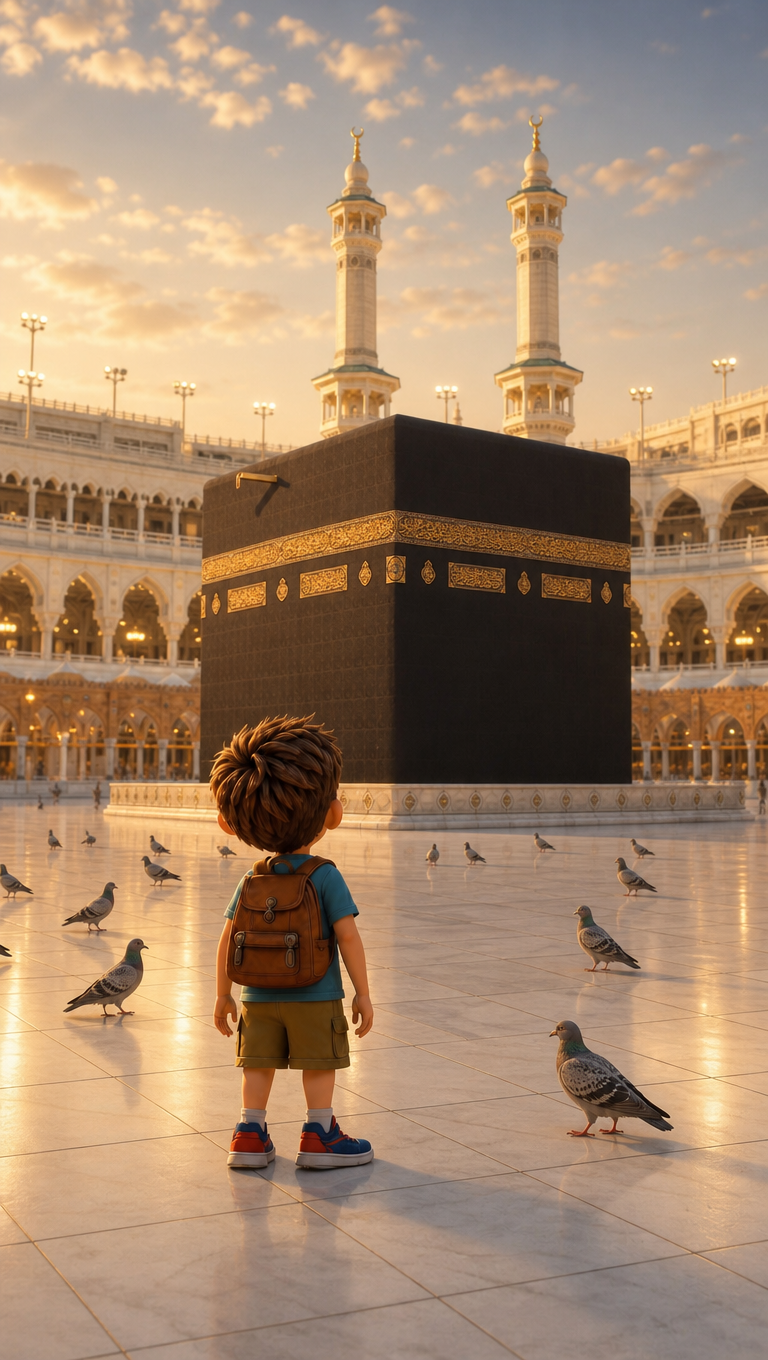
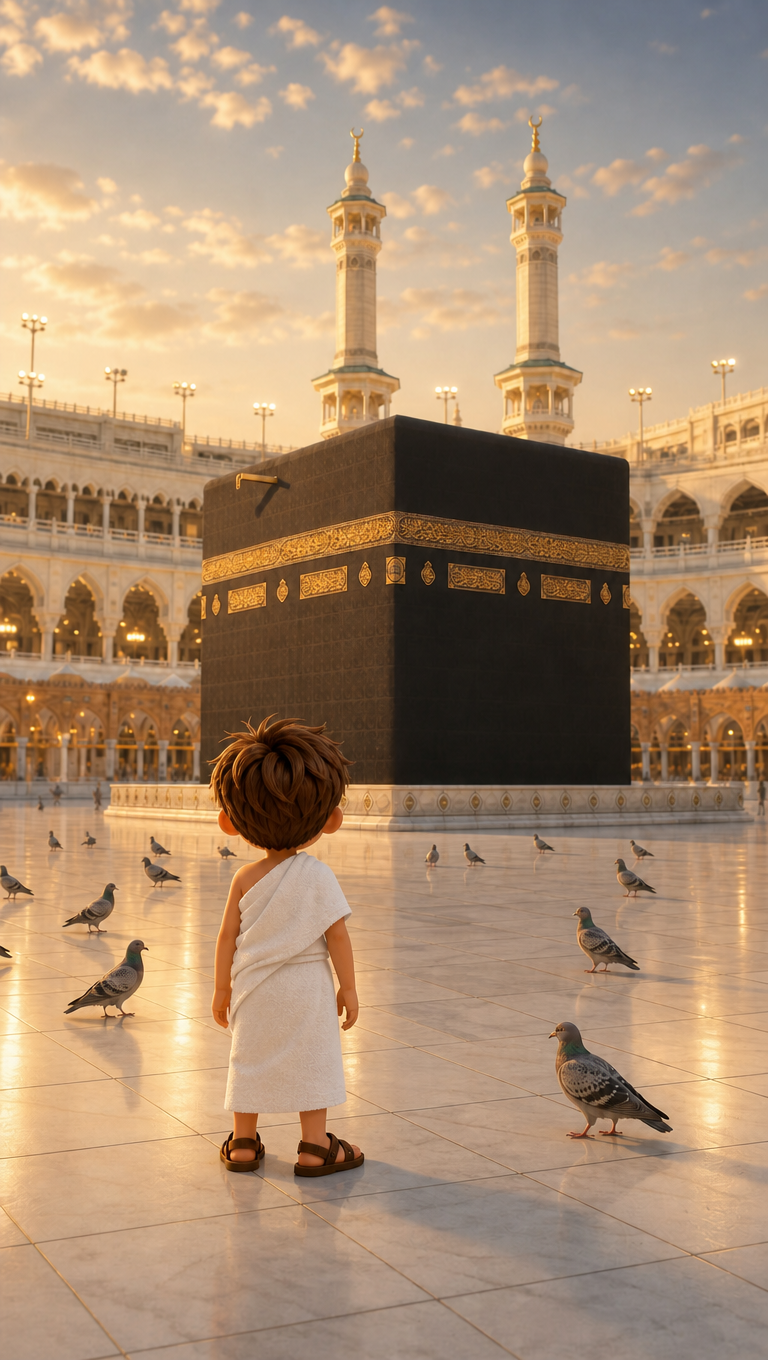
Haa journey (Saudi Arabia): film, clips, ihram at the Kaaba, wired into lessons

diff --git a/prototypes/forest-env/data.js b/prototypes/forest-env/data.js
@@ -41,3 +41,4 @@ export const LETTER_BA = {"char":"ب","name":"الْبَاء","color":"#FF6B9D",
 export const LETTER_TA = {"char":"ت","name":"التَّاء","color":"#5BC8F5","shadow":"#3b829f","levels":{"beginner":{"start":["تمر","توت","تبن"],"startD":[["َ","ْ","ْ"],["ُ","","ْ"],["ِ","ْ","ْ"]],"mid_c":["كتب","نتف","ستر"],"mid_cD":[["ُ","ُ","ْ"],["َ","َ","ْ"],["َ","ْ","ْ"]],"mid_n":["وتر","وتد","رتب"],"mid_nD":[["َ","َ","ْ"],["َ","َ","ْ"],["َ","َّ","َ"]],"end_c":["نبت","سكت","بنت"],"end_cD":[["َ","َ","َ"],["َ","َ","َ"],["ِ","ْ","ْ"]],"end_n":["موت","حوت","صوت"],"end_nD":[["َ","ْ","ْ"],["ُ","","ْ"],["َ","ْ","ْ"]]},"intermediate":{"start":["تفاح","تمساح","تلميذ"],"startD":[["ُ","َّ","","ْ"],["ِ","ْ","َ","","ْ"],["ِ","ْ","ِ","","ْ"]],"mid_c":["كتاب","فستان","نتاج"],"mid_cD":[["ِ","َ","","ْ"],["ُ","ْ","َ","","ْ"],["ِ","َ","","ْ"]],"mid_n":["وتين","رتيب","وتيرة"],"mid_nD":[["َ","ِ","","ْ"],["َ","ِ","","ْ"],["َ","ِ","","َ","ْ"]],"end_c":["نحت","سمت","صمت"],"end_cD":[["َ","ْ","ْ"],["َ","ْ","ْ"],["َ","ْ","ْ"]],"end_n":["بيوت","ثبات","فرات"],"end_nD":[["ُ","ُ","ْ","ْ"],["َ","َ","","ْ"],["ُ","َ","","ْ"]]},"advanced":{"start":["تمثال","تنور","تفاحة"],"startD":[["ِ","ْ","َ","","ْ"],["َ","ُّ","",""],["ُ","َّ","","َ","ْ"]],"mid_c":["كتابة","مكتبة","نتيجة"],"mid_cD":[["ِ","َ","","َ","ْ"],["َ","ْ","َ","َ","ْ"],["َ","ِ","","َ","ْ"]],"mid_n":["وترية","رتيبة","أتراب"],"mid_nD":[["َ","َ","ِ","َّ","ْ"],["َ","ِ","","َ","ْ"],["َ","ْ","َ","","ْ"]],"end_c":["سبت","نعت","مقت"],"end_cD":[["َ","ْ","ْ"],["َ","ْ","ْ"],["َ","ْ","ْ"]],"end_n":["ملكوت","ياقوت","عنكبوت"],"end_nD":[["َ","َ","ُ","","ْ"],["َ","","ُ","ْ","ْ"],["َ","ْ","َ","ُ","ْ","ْ"]]}}};
 export const LETTER_THA = {"char":"ث","name":"الثَّاء","color":"#52C97A","shadow":"#35824f","levels":{"beginner":{"start":["ثمر","ثوب","ثلج"],"startD":[["َ","َ","ْ"],["َ","ْ","ْ"],["َ","ْ","ْ"]],"mid_c":["كثر","نثر","لثة"],"mid_cD":[["َ","ُ","َ"],["َ","ْ","ْ"],["ِ","َّ","ْ"]],"mid_n":["وثب","دثر","رثة"],"mid_nD":[["َ","َ","ْ"],["َ","َّ",""],["َ","َّ","ْ"]],"end_c":["بحث","نكث","لبث"],"end_cD":[["َ","ْ","ْ"],["َ","َ","َ"],["َ","ِ","َ"]],"end_n":["ورث","حرث","إرث"],"end_nD":[["َ","ِ","َ"],["َ","ْ","ْ"],["ِ","ْ","ْ"]]},"intermediate":{"start":["ثعلب","ثمار","ثلاثة"],"startD":[["َ","ْ","َ","ْ"],["ِ","َ","","ْ"],["َ","َ","","َ","ْ"]],"mid_c":["كثير","نثار","مثال"],"mid_cD":[["َ","ِ","","ْ"],["ِ","َ","","ْ"],["ِ","َ","","ْ"]],"mid_n":["وثاق","دثار","رثاء"],"mid_nD":[["َ","َ","","ْ"],["ِ","َ","","ْ"],["َ","َ","","ْ"]],"end_c":["حديث","خبيث","نفث"],"end_cD":[["َ","ِ","","ْ"],["َ","ِ","","ْ"],["َ","ْ","ْ"]],"end_n":["وراث","تراث","ميراث"],"end_nD":[["ُ","َّ","","ْ"],["ُ","َ","","ْ"],["ِ","","َ","","ْ"]]},"advanced":{"start":["ثعالب","ثمرات","ثعبان"],"startD":[["َ","َ","","ِ","ْ"],["َ","َ","َ","","ْ"],["ُ","ْ","َ","","ْ"]],"mid_c":["كثافة","مثلث","حثيث"],"mid_cD":[["َ","َ","","َ","ْ"],["ُ","َ","َّ","ْ"],["َ","ِ","","ْ"]],"mid_n":["أثير","رثاثة","دثور"],"mid_nD":[["َ","ِ","","ْ"],["َ","َ","","َ","ْ"],["ُ","ُ","ْ","ْ"]],"end_c":["تشبث","تبعث","منبعث"],"end_cD":[["َ","َ","ُّ","ْ"],["ُ","ْ","َ","ْ"],["ُ","ْ","َ","ِ","ْ"]],"end_n":["وارث","حارث","موروث"],"end_nD":[["َ","","ِ","ْ"],["َ","","ِ","ْ"],["َ","ْ","ُ","","ْ"]]}}};
 export const LETTER_ALIF = {"char":"ا","name":"الْأَلِف","color":"#5F27CD","shadow":"#3d1985","words":[{"letters":["ب","ر","ت","ق","ا","ل"],"idx":4,"diac":["ُ","ْ","ُ","َ","","ْ"],"test":"join"},{"letters":["س","ا","ع","ة"],"idx":1,"diac":["َ","","َ","ْ"],"test":"join"},{"letters":["ك","ت","ا","ب"],"idx":2,"diac":["ِ","َ","","ْ"],"test":"join"},{"letters":["د","و","ا","ء"],"idx":2,"diac":["َ","َ","","ْ"],"test":"detach"},{"letters":["ن","ج","ا","ح"],"idx":2,"diac":["َ","َ","","ْ"],"test":"detach"},{"letters":["س","ل","ا","م"],"idx":2,"diac":["َ","َ","","ْ"],"test":"detach"}],"idWords":[{"letters":["أ","ر","ن","ب"],"idx":0,"diac":["َ","ْ","َ","ْ"]},{"letters":["أ","س","د"],"idx":0,"diac":["َ","َ","ْ"]},{"letters":["إ","ب","ر","ة"],"idx":0,"diac":["ِ","ْ","َ","ْ"]},{"letters":["أ","ن","ف"],"idx":0,"diac":["َ","ْ","ْ"]},{"letters":["إ","و","ز","ة"],"idx":0,"diac":["ِ","َ","َّ","ْ"]},{"letters":["ب","ر","ت","ق","ا","ل"],"idx":4,"diac":["ُ","ْ","ُ","َ","","ْ"]},{"letters":["س","ا","ع","ة"],"idx":1,"diac":["َ","","َ","ْ"]},{"letters":["ك","ت","ا","ب"],"idx":2,"diac":["ِ","َ","","ْ"]},{"letters":["د","و","ا","ء"],"idx":2,"diac":["َ","َ","","ْ"]},{"letters":["ن","ج","ا","ح"],"idx":2,"diac":["َ","َ","","ْ"]},{"letters":["ع","ص","ا"],"idx":2,"diac":["َ","َ",""]},{"letters":["د","ع","ا"],"idx":2,"diac":["َ","َ",""]},{"letters":["ن","ج","ا"],"idx":2,"diac":["َ","َ",""]},{"letters":["ه","ن","ا"],"idx":2,"diac":["ُ","َ",""]},{"letters":["ص","ح","ا"],"idx":2,"diac":["َ","َ",""]}]};
+export const LETTER_HAA = {"char":"ح","name":"الْحَاء","color":"#9B5DE5","shadow":"#643c94","levels":{"beginner":{"start":["حر","حل","حب"],"startD":[["َ","ّ","ْ"],["َ","ّ","ْ"],["ُ","ّ","ْ"]],"mid_c":["بحث","نحت","شحم"],"mid_cD":[["َ","ْ","ْ"],["َ","ْ","ْ"],["َ","ْ","ْ"]],"mid_n":["وحش","رحم","زحل"],"mid_nD":[["َ","ْ","ْ"],["َ","ِ","ْ"],["ُ","َ","ْ"]],"end_c":["نبح","سبح","نطح"],"end_cD":[["َ","َ","َ"],["َ","ِ","َ"],["َ","َ","َ"]],"end_n":["جرح","مرح","صرح"],"end_nD":[["ُ","ْ","ْ"],["َ","َ","ْ"],["َ","ْ","ْ"]]},"intermediate":{"start":["حقل","حجر","حكم"],"startD":[["َ","ْ","ْ"],["َ","َ","ْ"],["ُ","ْ","ْ"]],"mid_c":["صحن","فحم","نحلة"],"mid_cD":[["َ","ْ","ْ"],["َ","ْ","ْ"],["َ","ْ","َ","ْ"]],"mid_n":["وحدة","أحمد","زحمة"],"mid_nD":[["َ","ْ","َ","ْ"],["َ","ْ","َ","ْ"],["َ","ْ","َ","ْ"]],"end_c":["صلح","قبح","نضح"],"end_cD":[["َ","َ","َ"],["َ","ُ","َ"],["َ","َ","َ"]],"end_n":["صرح","قدح","رمح"],"end_nD":[["َ","ْ","ْ"],["َ","َ","ْ"],["ُ","ْ","ْ"]]},"advanced":{"start":["حقيبة","حديقة","حضارة"],"startD":[["َ","ِ","","َ","ْ"],["َ","ِ","","َ","ْ"],["َ","َ","","َ","ْ"]],"mid_c":["محطة","مشحون","بحيرة"],"mid_cD":[["َ","َ","َّ","ْ"],["َ","ْ","ُ","","ْ"],["ُ","َ","ْ","َ","ْ"]],"mid_n":["وحشية","أحلام","رحلات"],"mid_nD":[["َ","ْ","ِ","َّ","ْ"],["َ","ْ","َ","","ْ"],["ِ","َ","َ","","ْ"]],"end_c":["سامح","كافح","صافح"],"end_cD":[["َ","","َ","َ"],["َ","","َ","َ"],["َ","","َ","َ"]],"end_n":["جراح","أفراح","أرواح"],"end_nD":[["ِ","َ","","ْ"],["َ","ْ","َ","","ْ"],["َ","ْ","َ","","ْ"]]}}};

diff --git a/prototypes/forest-cine/journey.html b/prototypes/forest-cine/journey.html
@@ -68,7 +68,7 @@ html,body{height:100%;overflow:hidden;background:#15130c;font-family:'Tajawal',s
 <div class="screen" id="start"><h1>🏺 رحلة التراث</h1><p>رحلة حرف الباء: ثلاثة أجزاء، في كل جزء معلمان، وفي كل معلم سؤالان.</p><button>ابدأ</button></div>
 
 <script type="module">
-import { ARFORMS, LETTER_BA, LETTER_TA, LETTER_THA, LETTER_ALIF } from '/prototypes/forest-env/data.js';
+import { ARFORMS, LETTER_BA, LETTER_TA, LETTER_THA, LETTER_ALIF, LETTER_HAA } from '/prototypes/forest-env/data.js';
 import { WORD_SENTENCES } from '/prototypes/forest-env/sentences.js';
 import { specialPair } from '/prototypes/forest-env/special.js';
 
@@ -78,7 +78,7 @@ const QS = new URLSearchParams(location.search), CH = QS.get('l') || 'ب';
 const JD = '/prototypes/assets/journeys/';
 const J = await (await fetch(JD + encodeURIComponent(CH) + '.json')).json();
 // بيانات كلمات الحرف: في التجربة الباء وحدها مستخرجة من التطبيق؛ في التطبيق تأتي من بيانات الحرف مباشرة
-const LETTER = {'ب': LETTER_BA, 'ت': LETTER_TA, 'ث': LETTER_THA, 'ا': LETTER_ALIF}[J.letter];
+const LETTER = {'ب': LETTER_BA, 'ت': LETTER_TA, 'ث': LETTER_THA, 'ح': LETTER_HAA, 'ا': LETTER_ALIF}[J.letter];
 /* الحروف الستة غير المتصلة (الألف أولاً، 08.11): سؤال واحد في كل وقفة بكلمتين كتمرين التمييز في التطبيق.
    كلمات الرحلة أرقام ثابتة من idWords في ملف الحرف (keys)، والدرس في التطبيق يأخذ الباقي (SPECIAL_JOURNEY_IDX). */
 const SPECIAL = J.mode === 'special';

diff --git a/horofi-v11-9-29.html b/horofi-v11-9-29.html
@@ -5532,7 +5532,7 @@ function renderTwoOptionGrid(correctWord, wrongWord, tip, body, hlLetters, hlTar
    الدرس يصير 10 جولات (كلمتان لكل موضع) والكلمة الثالثة تنتقل إلى الرحلة. الصفحة والوسائط في prototypes/
    (المحرّك: prototypes/forest-cine/journey.html، وملف كل حرف: prototypes/assets/journeys/<الحرف>.json).
    التفعيل: ?journeys=1 مرة واحدة (يُحفظ)، والإيقاف: ?journeys=0 — راجع docs/letter-journeys-plan.md */
-const JOURNEY_LETTERS = ['ا','ب','ت','ث'];
+const JOURNEY_LETTERS = ['ا','ب','ت','ث','ح'];
 /* الحروف غير المتصلة (الألف أولاً، 08.11): كلماتها 15 فقط، فكلمات الرحلة أرقام ثابتة من idWords تُستبعد من الدرس
    (يبقى 10 جولات)، والرحلة تأخذها ومعها كلمة واحدة من الدرس — المطابق في prototypes/assets/journeys/ا.json (keys) */
 const SPECIAL_JOURNEY_IDX = {'ا': [3, 4, 8, 9, 14]};
